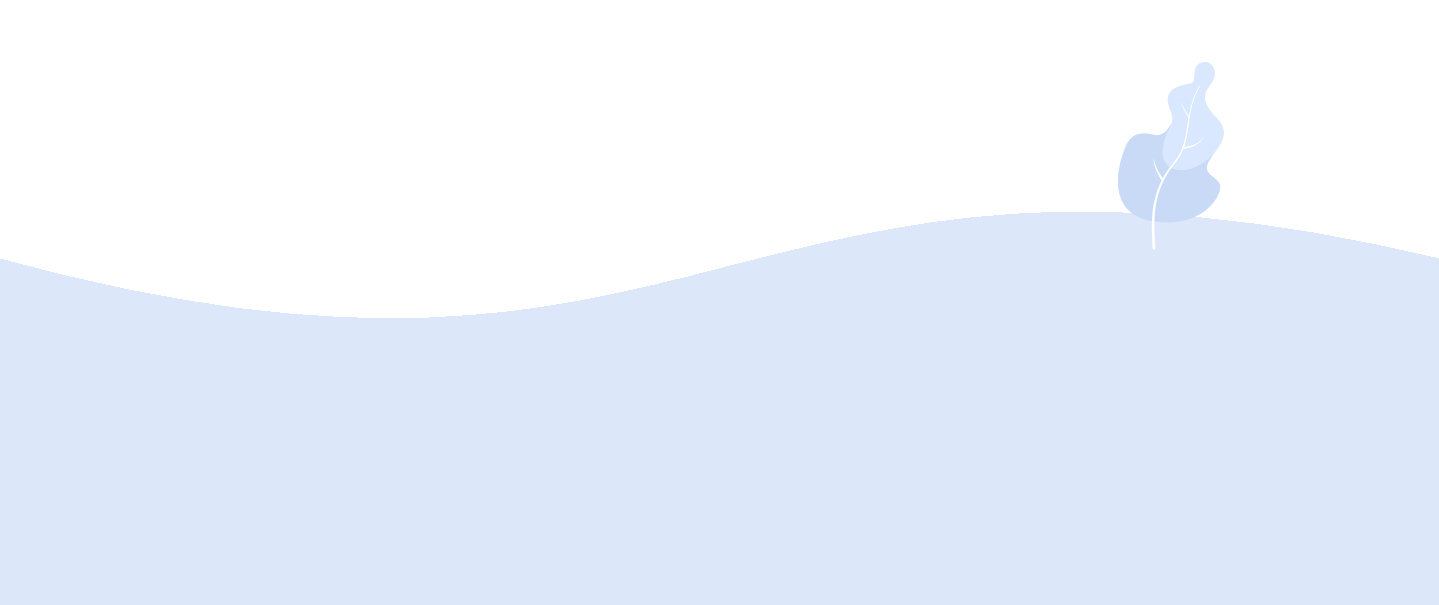
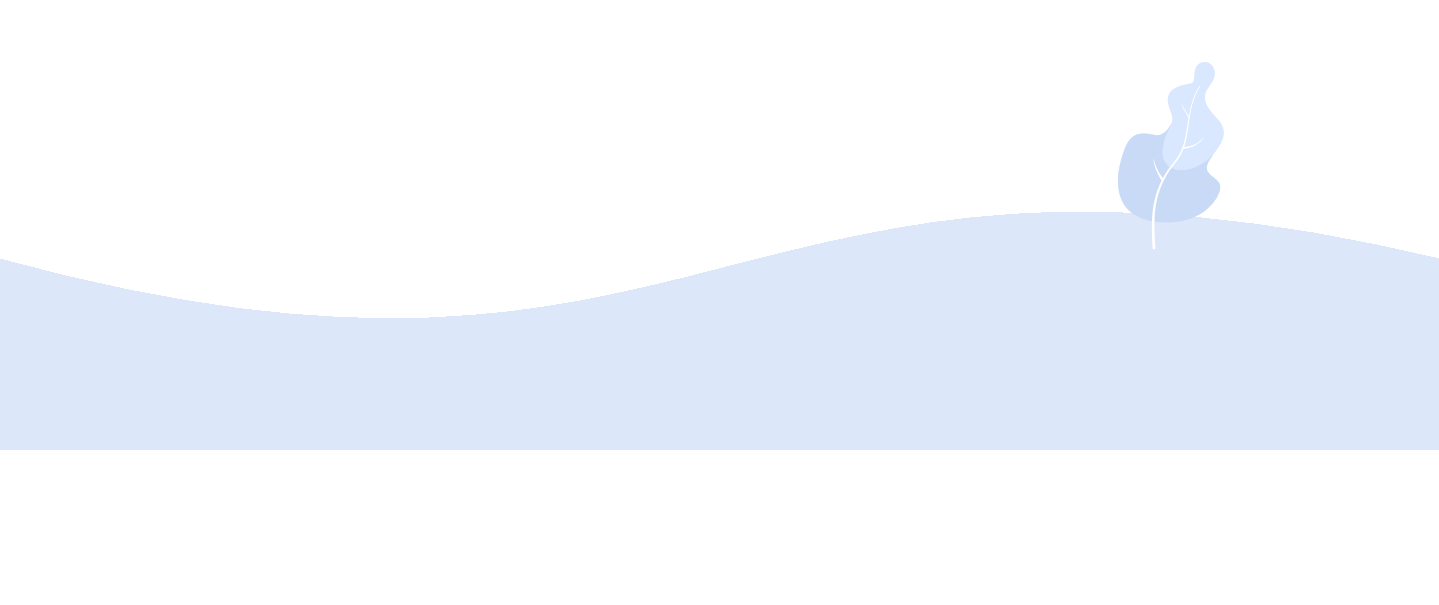
landing page parallax effect added

Changed region(s): [[0.0, 0.7438, 1.0, 1.0]]

diff --git a/src/router.tsx b/src/router.tsx
@@ -1,6 +1,7 @@
 import * as React from 'react'
 import { Route, HashRouter, Switch } from 'react-router-dom'
-import { App } from './app'
+import { ParallaxProvider } from 'react-scroll-parallax'
+
 import { Header, About, Footer, Contact } from './components'
 import TheDifferencePage from './components/TheDifferencePage'
 import HomePage from './components/Home/HomePage'
@@ -20,32 +21,34 @@ const routes = [
 
 export const AppRouter: React.StatelessComponent<{}> = () => {
   return (
-    <HashRouter>
-      <div className="">
-        <Switch>
-          {routes.map(route => (
-            <Route
-              key={route.path}
-              path={route.path}
-              exact={route.exact}
-              component={route.is_head_neccessary ? () => <Header /> : null}
-            />
-          ))}
-          <Route component={Header} />
-        </Switch>
-        <Switch>
-          {routes.map(route => (
-            <Route
-              key={route.path}
-              path={route.path}
-              exact={route.exact}
-              component={route.main}
-            />
-          ))}
-          <Route component={HomePage} />
-        </Switch>
-        <Footer />
-      </div>
-    </HashRouter>
+    <ParallaxProvider>
+      <HashRouter>
+        <div className="">
+          <Switch>
+            {routes.map(route => (
+              <Route
+                key={route.path}
+                path={route.path}
+                exact={route.exact}
+                component={route.is_head_neccessary ? () => <Header /> : null}
+              />
+            ))}
+            <Route component={Header} />
+          </Switch>
+          <Switch>
+            {routes.map(route => (
+              <Route
+                key={route.path}
+                path={route.path}
+                exact={route.exact}
+                component={route.main}
+              />
+            ))}
+            <Route component={HomePage} />
+          </Switch>
+          <Footer />
+        </div>
+      </HashRouter>
+    </ParallaxProvider>
   )
 }

diff --git a/src/components/Landing/LandingTop/index.tsx b/src/components/Landing/LandingTop/index.tsx
@@ -1,5 +1,6 @@
 import * as React from 'react'
 import { ResponsiveImage, ResponsiveImageSize } from 'react-responsive-image'
+import { Parallax } from 'react-scroll-parallax'
 import { CSSTransitionGroup } from 'react-transition-group'
 import { Animated } from 'react-animated-css'
 
@@ -72,7 +73,9 @@ const LandingTop: React.StatelessComponent<{}> = () => {
           isVisible={true}
           className="top_mountain"
         >
-          <img src={top_mountain_effect_landing} />
+          <Parallax className="" y={[0, -20]}>
+            <img src={top_mountain_effect_landing} />
+          </Parallax>
         </Animated>
         <Animated
           animationIn="bounceInUpOneTimeMiddleMountain"
@@ -84,7 +87,9 @@ const LandingTop: React.StatelessComponent<{}> = () => {
         >
           <img src={middle_mountain_effect_landing} className="" />
         </Animated>
-        <img src={bottom_mountain_effect_landing} className="bottom_mountain" />
+        <Parallax className="bottom_mountain" y={[0, -25]}>
+          <img src={bottom_mountain_effect_landing} className="" />
+        </Parallax>
         <Animated
           animationIn="bounceInUpOneTime"
           animationOut="fadeOut"

diff --git a/src/components/Landing/LandingTop/styles.scss b/src/components/Landing/LandingTop/styles.scss
@@ -69,6 +69,9 @@
       left: 0;
       bottom: 0;
       width: 100%;
+      img {
+        width: 100%;
+      }
     }
     .phone_back {
       width: (100% * 360/1440);
@@ -513,4 +516,35 @@
     opacity: 0.1;
     -ms-transform: translate(-1px, -1px);
   }
+}
+
+@-webkit-keyframes slideInUpBottomMountain {
+  from {
+    -webkit-transform: translate3d(0, 50%, 0);
+    transform: translate3d(0, 50%, 0);
+    visibility: visible;
+  }
+
+  to {
+    -webkit-transform: translate3d(0, 0, 0);
+    transform: translate3d(0, 0, 0);
+  }
+}
+
+@keyframes slideInUpBottomMountain {
+  from {
+    -webkit-transform: translate3d(0, 50%, 0);
+    transform: translate3d(0, 50%, 0);
+    visibility: visible;
+  }
+
+  to {
+    -webkit-transform: translate3d(0, 0, 0);
+    transform: translate3d(0, 0, 0);
+  }
+}
+
+.slideInUpBottomMountain {
+  -webkit-animation-name: slideInUp;
+  animation-name: slideInUp;
 }

diff --git a/src/components/Landing/LandingHeader/index.tsx b/src/components/Landing/LandingHeader/index.tsx
@@ -18,7 +18,7 @@ import './styles.scss'
 const LandingHeader: React.StatelessComponent<{}> = () => {
   return (
     <div className="container-fluid">
-      <div className="LandingHeader row justify-content-center border-bottom fixed-top">
+      <div className="LandingHeader row justify-content-center fixed-top">
         <Navbar className="col-10 col-sm-8" expand="sm">
           <Navbar.Brand href="#/home">
             {' '}

diff --git a/src/components/Landing/LandingPage/index.tsx b/src/components/Landing/LandingPage/index.tsx
@@ -1,6 +1,4 @@
 import * as React from 'react'
-import { NavLink } from 'react-router-dom'
-
 import LandingHeader from '../LandingHeader'
 import LandingTop from '../LandingTop'
 import LandingMiddle from '../LandingMiddle'
